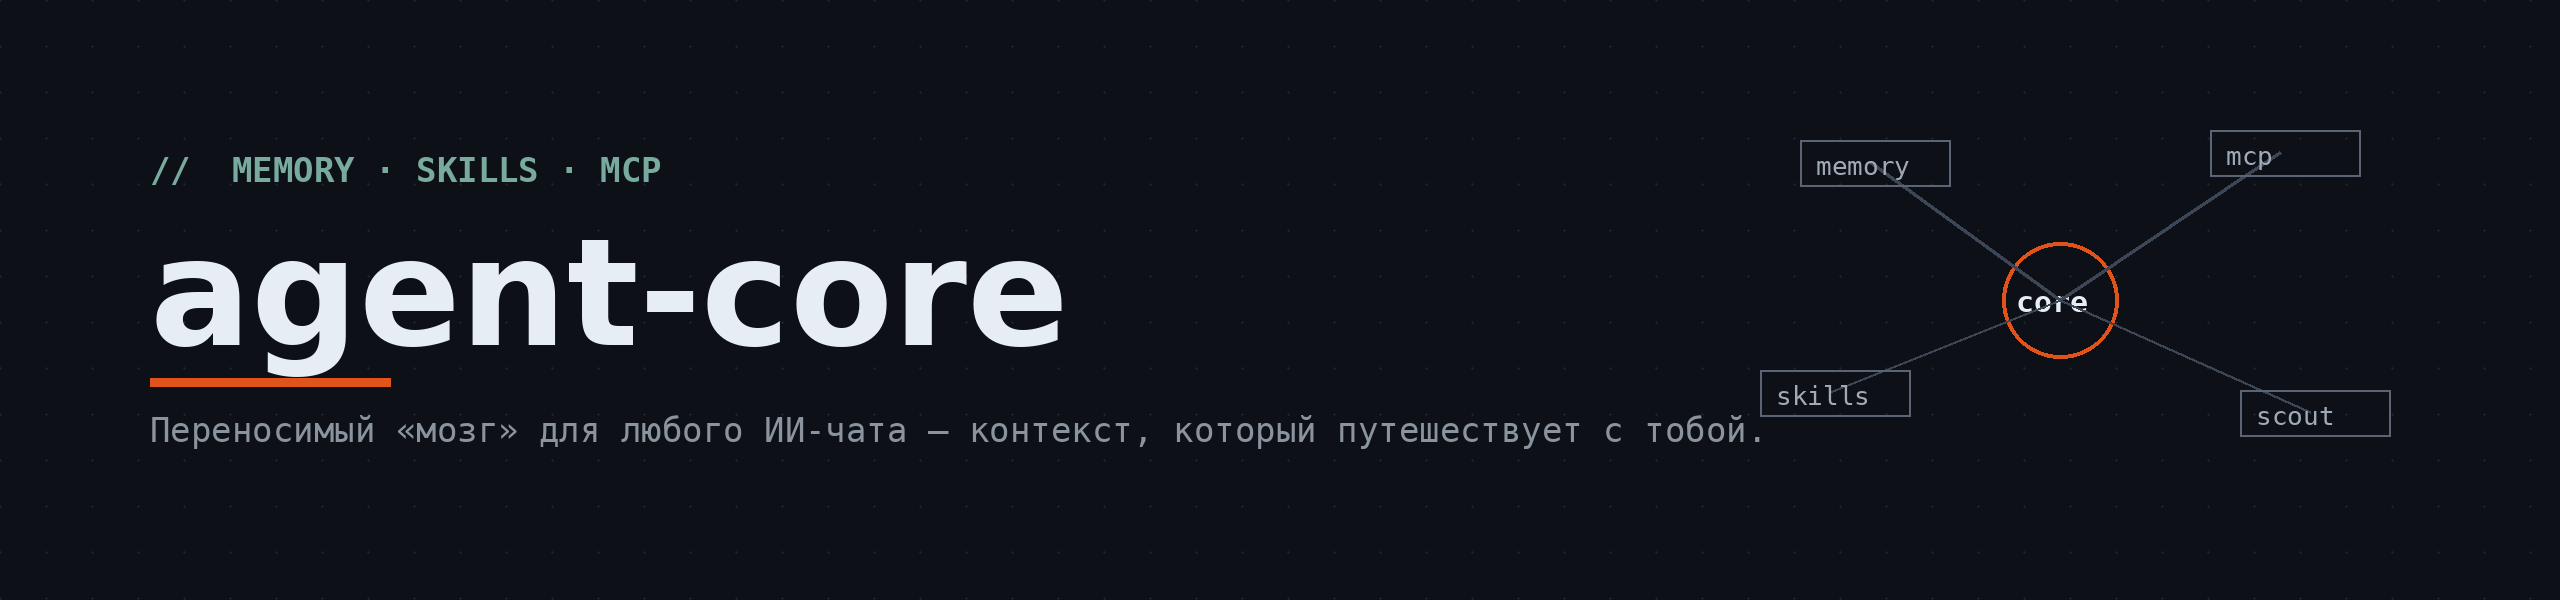
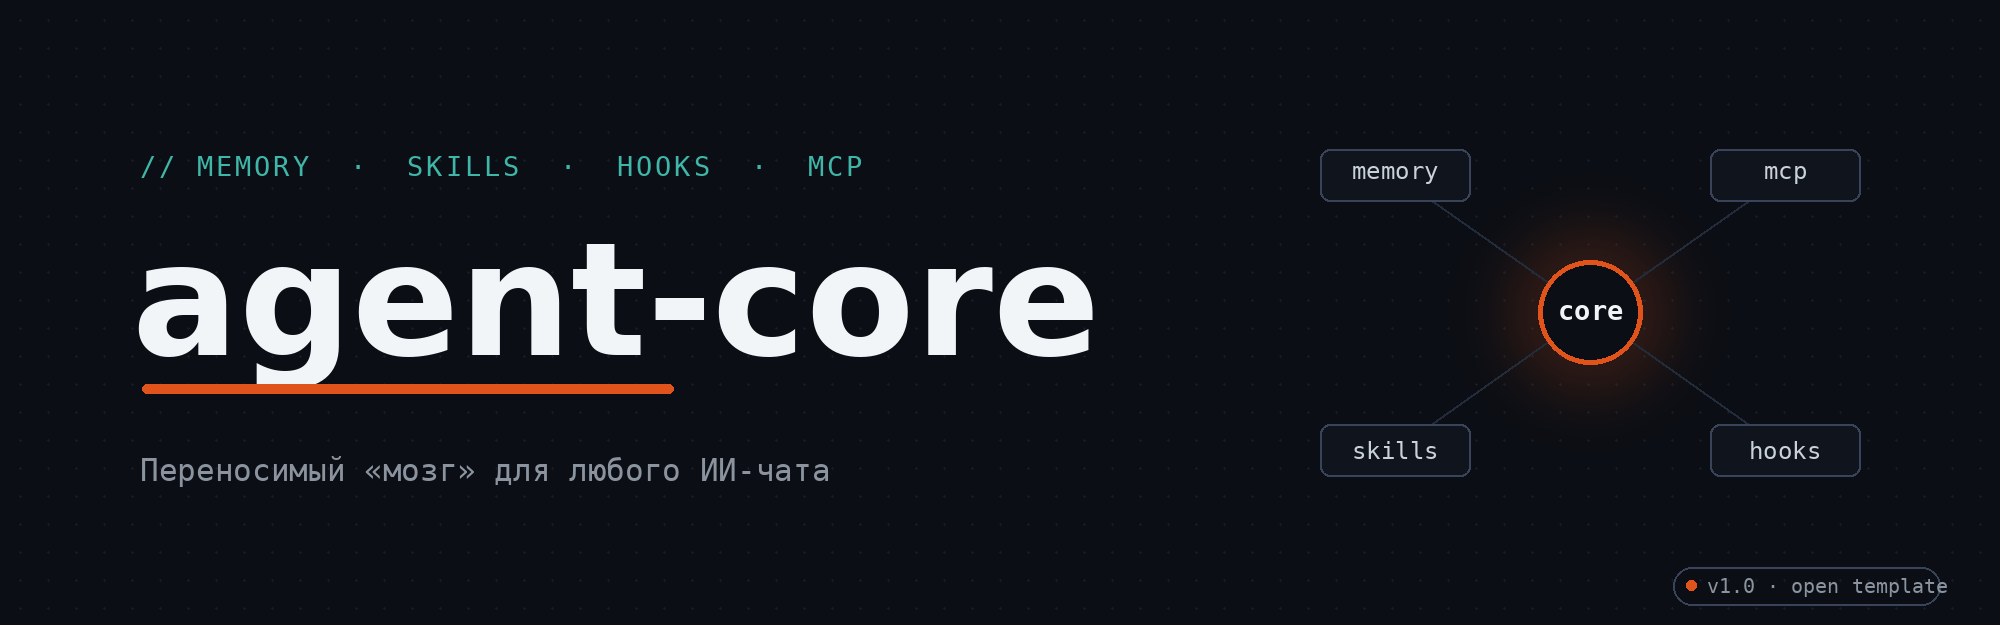
docs: оформление — новый баннер (2000x625) и пересобранный README (структура, FAQ, дерево файлов, бейджи)

diff --git a/README.md b/README.md
@@ -8,6 +8,7 @@
   <img src="https://img.shields.io/badge/навыки-modular-8B949E?style=flat-square&labelColor=0D1117">
   <img src="https://img.shields.io/badge/MCP-ready-8B949E?style=flat-square&labelColor=0D1117">
   <img src="https://img.shields.io/badge/лицензия-MIT-3FB6A8?style=flat-square&labelColor=0D1117">
+  <img src="https://img.shields.io/github/stars/debug999-cyber/agent-core-open?style=flat-square&labelColor=0D1117&color=8B949E">
 </p>
 
 > **Переносимый «мозг» для ИИ-чата.** Клодишь репозиторий — и любой чат (Claude, ChatGPT,
@@ -15,7 +16,7 @@
 
 ---
 
-## Идея
+## 🧠 Идея
 
 Обычный чат забывает всё после закрытия вкладки. Этот репозиторий — **внешняя память
 и характер** агента: один раз настроил → в любом чате он снова «твой».
@@ -29,12 +30,14 @@
       └──── дописывает ─────────┘   commit → в следующий раз мозг полнее
 ```
 
-## Быстрый старт (5 минут)
+Круг замыкается: **ошибка → урок → скилл → следующий «ты» умнее.**
 
-1. **Сделай копию** — сделай форк этого репозитория (или просто клонируй) и назови
-   по-своему, например `my-agent-brain`. Память — личная, репозиторий лучше сделать **приватным**.
-2. **Заполни профиль** — `memory/user.md` и `memory/preferences.md` (агент поможет:
-   он задаст 4–5 вопросов и заполнит сам).
+## 🚀 Быстрый старт (5 минут)
+
+1. **Сделай копию** — форкни этот репозиторий (или клонируй) и назови по-своему,
+   например `my-agent-brain`. Память — личная, репозиторий лучше сделать **приватным**.
+2. **Заполни профиль** — `memory/user.md` и `memory/preferences.md`.
+   Агент поможет: задаст 4–5 вопросов и заполнит сам.
 3. **Настрой git** — имя и email для коммитов:
 
    ```bash
@@ -42,7 +45,7 @@
    git config --global user.email "you@example.com"
    ```
 
-4. **Поставь страховку от секретов**:
+4. **Поставь страховку от секретов** (git-хук, который не пустит токены в коммит):
 
    ```bash
    cp hooks/pre-commit-check.sh .git/hooks/pre-commit && chmod +x .git/hooks/pre-commit
@@ -52,25 +55,39 @@
 
    > Вот мой мозг агента: `https://github.com/<ты>/<мозг>` — склонируй и работай по файлу `START.md`.
 
-## Что внутри
+## 📦 Что внутри
 
-| Папка / файл | Что это |
+| Файл | Что это |
 | --- | --- |
-| `START.md` | пропуск: что делать, получив ссылку |
-| `memory/` | кто ты, правила, решения, уроки, что сейчас (шаблоны — заполняй) |
-| `skills/` | как выполнять задачи: по одному навыку в папке, открытый формат Agent Skills |
-| `mcp/` | «руки»: готовые конфиги для Cline, Claude Desktop, Cursor |
-| `hooks/` | защита: git-хук не пустит токены и ключи в репозиторий |
-| `scripts/` | инструменты: ночное сохранение и дайджест веб-страниц |
-| `templates/` | шаблоны заметок, решений и скиллов |
-| `changelog.md` | журнал: что было сделано |
+| 🚪 `START.md` | пропуск: что делать, получив ссылку |
+| 🧠 `memory/` | кто ты, правила, решения, уроки, что сейчас (шаблоны — заполняй) |
+| 🧩 `skills/` | как выполнять задачи: по одному навыку в папке, открытый формат Agent Skills |
+| 🖐 `mcp/` | «руки»: готовые конфиги для Cline, Claude Desktop, Cursor |
+| 🛡 `hooks/` | защита: git-хук не пустит токены и ключи в репозиторий |
+| ⚙ `scripts/` | инструменты: ночное сохранение и дайджест веб-страниц |
+| 📐 `templates/` | шаблоны заметок, решений и скиллов |
+| 📓 `changelog.md` | журнал: что было сделано |
 
-## Как это развивается
+```
+agent-core/
+├── START.md            ← пропуск для нового чата
+├── AGENTS.md           ← указатели для агента
+├── memory/             ← мозг (заполняешь)
+│   ├── MEMORY.md       ← индекс: читать первым
+│   ├── user.md         ← кто пользователь
+│   ├── preferences.md  ← как с ним работать
+│   ├── context.md      ← что сейчас
+│   ├── lessons.md      ← уроки (append-only)
+│   └── decisions.md    ← решения (append-only)
+├── skills/             ← ящик инструментов (8 скиллов в комплекте)
+├── mcp/                ← «руки» и конфиги клиентов
+├── hooks/              ← страховка от секретов
+├── scripts/            ← ночное сохранение, дайджест страниц
+├── templates/          ← шаблоны записей
+└── changelog.md        ← журнал
+```
 
-После каждой беседы агент дописывает новое в `memory/` и делает коммит. В следующий
-раз он стартует с более полным контекстом. **Ошибки становятся уроками, уроки — навыками.**
-
-## Безопасность
+## 🛡 Безопасность
 
 Агент — это «чат с терминалом», поэтому правила строгие:
 
@@ -83,7 +100,13 @@
 - **Чтение — автоматически, запись — осознанно:** любое действие, меняющее мир
   (коммит, пуш, установка), — только когда понятно, что именно меняется.
 
-## Как расширять
+## 📈 Как это развивается
+
+После каждой беседы агент дописывает новое в `memory/` и делает коммит. В следующий
+раз он стартует с более полным контекстом. Урок, повторившийся 2+ раза, становится
+скиллом; скилл, который устарел, — правится. Мозг растёт вместе с тобой.
+
+## 🔧 Как расширять
 
 - **Новый скилл** — папка `skills/<имя>/SKILL.md` (шаблон: `templates/skill-template.md`).
 - **MCP** — конфиги в `mcp/configs/` для твоих клиентов, либо свой сервер.
@@ -91,11 +114,25 @@
   расписание (cron / launchd) запускает без агента: у агента нет часов — он живёт в чате.
 - Свои разделы в `memory/`, свои хуки, свои шаблоны — структура открытая.
 
-## Важно
+## ❓ FAQ
 
-Агент живёт только в чате, не по расписанию. Единственное место, где память живёт
-между беседами, — этот репозиторий.
+**Это бот или программа?**
+Нет. Агент живёт только в чате. Единственное место, где память живёт между беседами,
+— git-репозиторий. «Фон» (например, ночное сохранение) — обычные скрипты по расписанию ОС.
+
+**Сработает с любой моделью?**
+Да: правила ядра короткие (не тонут в контексте), а красные линии и хук работают
+независимо от того, какая модель за рулём.
+
+**Это GitHub-only?**
+Нет. Любой git-хост подойдёт; GitHub описан как пример (токены, API, форки).
+
+## Лицензия
+
+[MIT](LICENSE) — бери, форкай, делай своим.
 
 ---
 
-<sub>Шаблон: форкни и сделай своим. Лицензия — MIT.</sub>
+<p align="center">
+  <sub>Шаблон, собранный агентом для агентов · <b>agent-core</b> · v1.0</sub>
+</p>
